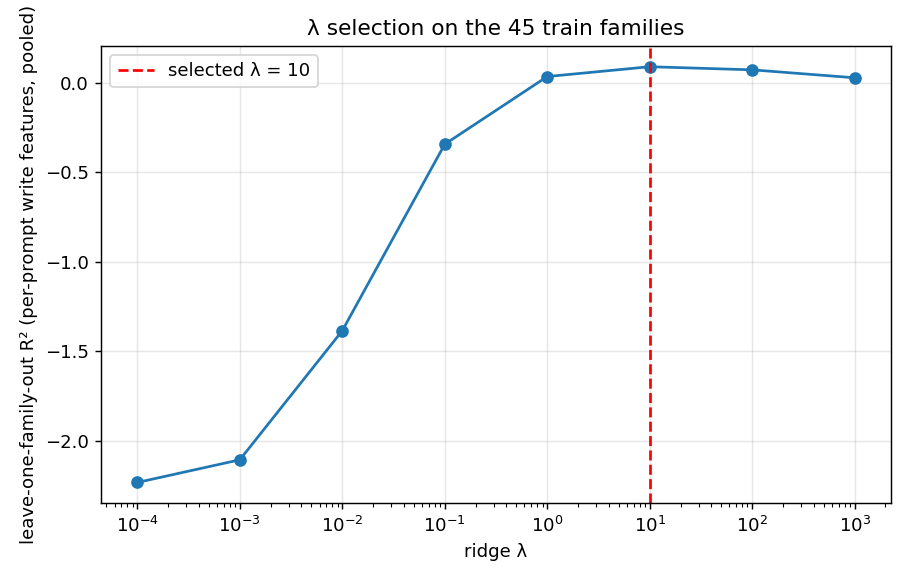
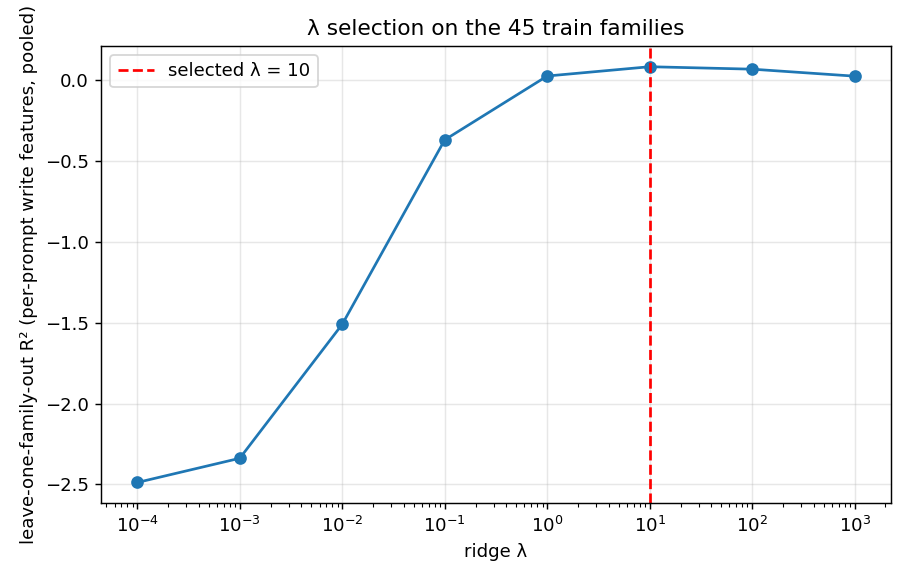
Read->write map: v1 refit on the regen8 corpus (split test18 minus py_abbrev); previous fit archived in sandbox/sep_22_runs

diff --git a/results/code_styles/read_write_map/sandbox/v1_pairdiff_unitnorm_clean/README.md b/results/code_styles/read_write_map/sandbox/v1_pairdiff_unitnorm_clean/README.md
@@ -1,13 +1,14 @@
-# v1 (clean data) — the v7 recipe refit on the cleaned corpus (2026-09-22)
+# v1 (clean data) — the v7 recipe on the regen8 corpus (2026-09-23)
 
-- Data: per-prompt activations captured after the corpus-wide padding clean-up (49 families regenerated, py_private redefined as
-  underscore-prefixed vs plain private members). Rows = per (document, k) pair differences, X = read_nat − read_alt (L8 evidence means),
-  Y = write_nat − write_alt (L24 cue), all k = 3/4 prompts (no correctness filter), 14,794 train pairs; both differences unit-normalised.
-- Split: `../../split_2026-09-22_test18.json` = the 2026-09-15 test19 split minus py_ternary (dropped from the pool): 37 train / 18 test.
-- Fit: ridge with intercept, λ by leave-one-family-out (grid 1e-4..1e3): λ = 10, LOFO R² .088 (per-dim .039); train-fit R² .545.
+- Data: per-prompt activations captured after regen8 (7,271 of 7,567 strict-review failures regenerated; 54 pool families). Rows = per
+  (document, k) pair differences, X = read_nat − read_alt (L8 evidence means), Y = write_nat − write_alt (L24 cue), all k = 3/4 prompts
+  (no correctness filter), 14,400 train pairs; both differences unit-normalised.
+- Split: `../../split_2026-09-23_test18.json` = the 2026-09-15 test19 split minus py_ternary and py_abbrev (both out of the pool): 36 train / 18 test.
+- Fit: ridge with intercept, λ by leave-one-family-out (grid 1e-4..1e3): λ = 10, LOFO R² .083; train-fit R² .576.
   Model: `artifacts/.../read_write_map/ridge_L8_to_L24_v1_pairdiff_unitnorm_clean.npz`.
 - Evaluation on unit-normalised centroid DIFFERENCE vectors (`centroid_diff_eval.json`, `tmp/eval_clean_map.py`), 18 test families:
-  R² .186 (test-mean denominator), .263 (train-mean denominator); constant train-mean −.104; cos(pred, true) mean .465 (constant .08);
-  norm ratio .41; train in-sample R² .924.
-- Comparison with sep_18_runs/v7 (old data, 19 test families incl. py_ternary): R² .175 / .248, cos .44. Per family: py_private .27 → .49
-  (redefined), py_not_in .12 → .04, others within ±.06.
+  R² .136 (test-mean denominator), .219 (train-mean denominator); constant train-mean −.107; cos(pred, true) mean .41 (constant .08);
+  norm ratio .40; train in-sample R² .933.
+- Previous fits of the same recipe: `../sep_22_runs/v1_pairdiff_unitnorm_clean/` (after the first clean-up, 37/18: R² .186 / .263, cos .465)
+  and `../sep_18_runs/v7_…` (original data, 37/19: .175 / .248, cos .44). Per family: py_snake_camel .91 and js_quotes .90 unchanged at the
+  top; py_fstring .84 → .36, c_comment_style .41 → .32, py_private .49 → .48; rust_question .11 and py_not_in .05 stay at the bottom.

diff --git a/results/code_styles/read_write_map/sandbox/sep_22_runs/v1_pairdiff_unitnorm_clean/README.md b/results/code_styles/read_write_map/sandbox/sep_22_runs/v1_pairdiff_unitnorm_clean/README.md
@@ -1,0 +1,13 @@
+# v1 (clean data) — the v7 recipe refit on the cleaned corpus (2026-09-22)
+
+- Data: per-prompt activations captured after the corpus-wide padding clean-up (49 families regenerated, py_private redefined as
+  underscore-prefixed vs plain private members). Rows = per (document, k) pair differences, X = read_nat − read_alt (L8 evidence means),
+  Y = write_nat − write_alt (L24 cue), all k = 3/4 prompts (no correctness filter), 14,794 train pairs; both differences unit-normalised.
+- Split: `../../split_2026-09-22_test18.json` = the 2026-09-15 test19 split minus py_ternary (dropped from the pool): 37 train / 18 test.
+- Fit: ridge with intercept, λ by leave-one-family-out (grid 1e-4..1e3): λ = 10, LOFO R² .088 (per-dim .039); train-fit R² .545.
+  Model: `artifacts/.../read_write_map/ridge_L8_to_L24_v1_pairdiff_unitnorm_clean.npz`.
+- Evaluation on unit-normalised centroid DIFFERENCE vectors (`centroid_diff_eval.json`, `tmp/eval_clean_map.py`), 18 test families:
+  R² .186 (test-mean denominator), .263 (train-mean denominator); constant train-mean −.104; cos(pred, true) mean .465 (constant .08);
+  norm ratio .41; train in-sample R² .924.
+- Comparison with sep_18_runs/v7 (old data, 19 test families incl. py_ternary): R² .175 / .248, cos .44. Per family: py_private .27 → .49
+  (redefined), py_not_in .12 → .04, others within ±.06.

diff --git a/results/code_styles/read_write_map/sandbox/README.md b/results/code_styles/read_write_map/sandbox/README.md
@@ -3,5 +3,6 @@
 - `sep_18_runs/` — every map run made on the per-prompt activations captured BEFORE the corpus-wide padding clean-up (2026-09-15 … 09-19):
   v1–v9 as described in the parent README. Their prompts include documents later found to be padded (24 % of the corpus) and the old,
   invalid py_private definition. Kept for reference only; their model files are under `artifacts/.../read_write_map/sep_18_runs/`.
-- `v1_pairdiff_unitnorm_clean/` — the v7 recipe (per-prompt pair differences, all k = 3/4 prompts, unit norm, ridge with intercept, λ by
-  leave-one-family-out, test19 split) refit on the cleaned data (2026-09-22 activations: 49 families regenerated, py_private redefined).
+- `sep_22_runs/v1_pairdiff_unitnorm_clean/` — the v7 recipe refit on the first clean-up's activations (2026-09-22; 49 families regenerated, py_private redefined).
+- `v1_pairdiff_unitnorm_clean/` — the CURRENT map: the v7 recipe (per-prompt pair differences, all k = 3/4 prompts, unit norm, ridge with intercept,
+  λ by leave-one-family-out) refit on the regen8 corpus (2026-09-23; split test18 = 36 train / 18 test, py_ternary and py_abbrev out of the pool).

diff --git a/WORKLOG.md b/WORKLOG.md
@@ -10169,3 +10169,7 @@ artifacts artifacts/qwen25_fv/raw_mean_steering/sixshot_dummy/. **Next:** none. 
 not in any refresh shard); refreshed on pod refresh12_f3 (terminated). POOL 54 / 60 (dropped: css_shorthand, py_ternary, early_return, py_bool_prefix,
 c_braces, py_abbrev). Pooled 54: k0 .288 → .298, k4 .724 → .763, write L24 α2 .549 → .560, read L8 α4 .587 → .595, 3-shot ref .718 → .760.
 prompt_pairs 44,800 prompts / 33,388 correct over 56 families; 0 unjudged; all pool families complete. Tables results/code_styles/regen8/.
+
+**2026-09-23 — read→write map refit on the regen8 corpus.** Previous v1 → `sandbox/sep_22_runs/`; new `sandbox/v1_pairdiff_unitnorm_clean/`
+(v7 recipe, split_2026-09-23_test18 = 36/18, py_abbrev removed): λ 10, LOFO R² .083; centroid-diff R² .136 / .219 (test / train mean), cos .41
+(previous .186 / .263, .465; original .175 / .248, .44). Pod map_7 terminated. Causal test not re-run (awaits user).
